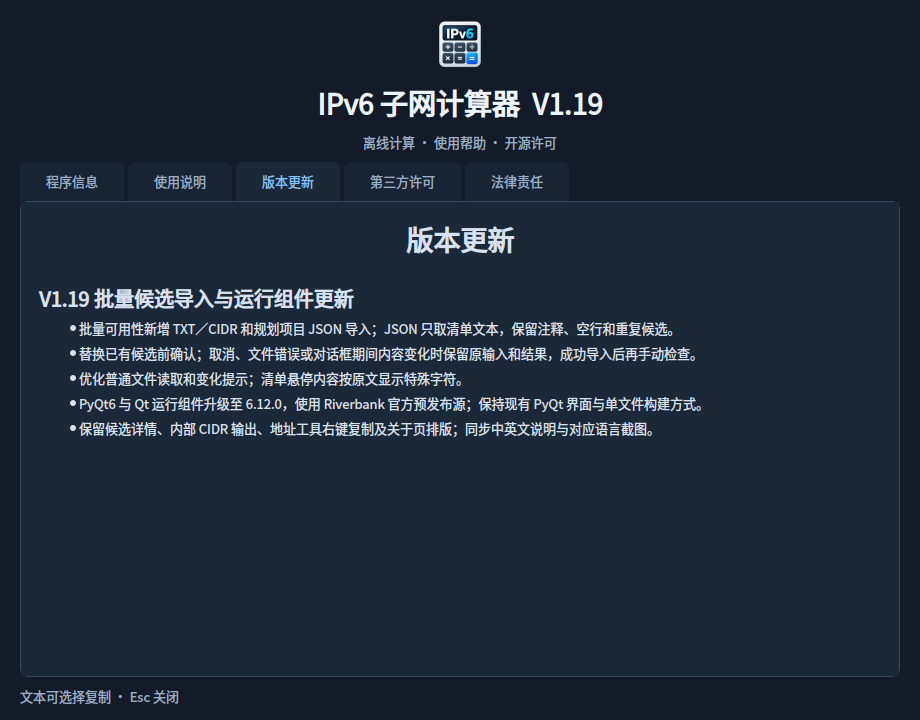
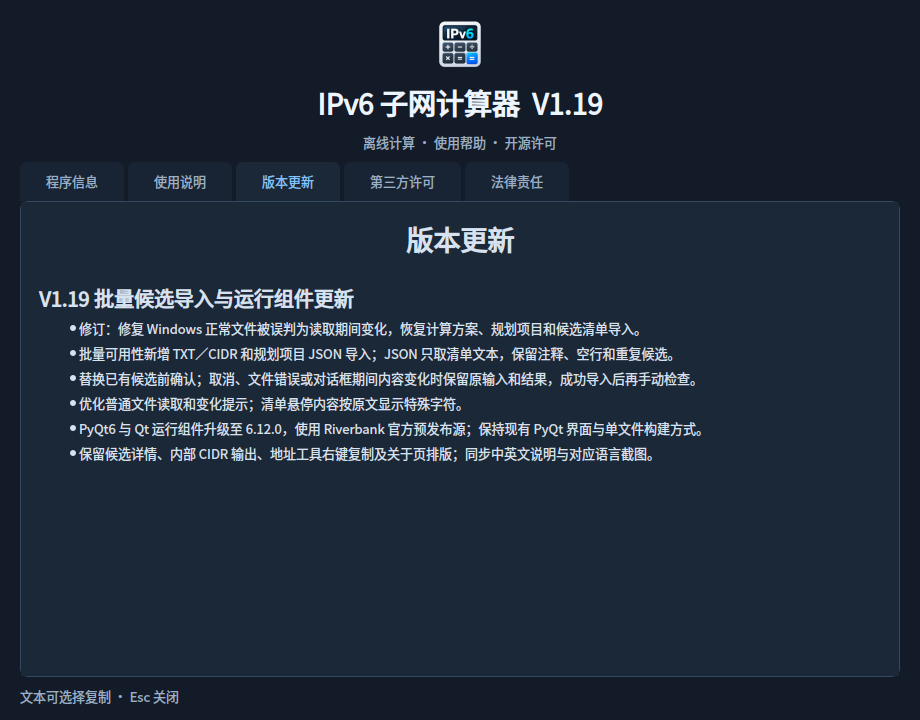
修复 Windows 文件读取误判导致的 i18n 回归失败

Changed region(s): [[0.0609, 0.4278, 0.7609, 0.6417]]

diff --git a/tests/test_import_security.py b/tests/test_import_security.py
@@ -89,3 +89,50 @@ class ImportSecurityTests(unittest.TestCase):
             with patch('services.input_files.os.fstat',side_effect=fake):
                 with self.assertRaises(InputError):read_input_file(p,100,'limit')
             with self.assertRaises(OSError):real(opened[0])
+
+
+class WindowsImportMetadataTests(unittest.TestCase):
+    @staticmethod
+    def copy_info(info,**changes):
+        from types import SimpleNamespace
+        fields={name:getattr(info,name) for name in ('st_dev','st_ino','st_mode','st_size','st_mtime_ns','st_ctime_ns')}
+        fields.update(changes)
+        return SimpleNamespace(**fields)
+
+    def test_windows_different_path_and_handle_ctime_accepts_unchanged_file(self):
+        real=os.fstat
+        with tempfile.TemporaryDirectory() as folder:
+            p=Path(folder)/'input.txt';p.write_bytes(b'::/128')
+            def handle(fd):return self.copy_info(real(fd),st_ctime_ns=real(fd).st_ctime_ns+1000000)
+            with patch('services.input_files._WINDOWS',True),patch('services.input_files.os.fstat',side_effect=handle):
+                self.assertEqual(load_subnet_list(p),'::/128')
+
+    def test_windows_handle_ctime_change_during_read_is_still_rejected(self):
+        real=os.fstat;calls=0
+        with tempfile.TemporaryDirectory() as folder:
+            p=Path(folder)/'input.txt';p.write_bytes(b'::/128')
+            def handle(fd):
+                nonlocal calls
+                calls+=1
+                return self.copy_info(real(fd),st_ctime_ns=real(fd).st_ctime_ns+calls)
+            with patch('services.input_files._WINDOWS',True),patch('services.input_files.os.fstat',side_effect=handle):
+                with self.assertRaises(InputError):load_subnet_list(p)
+
+    def test_windows_path_ctime_change_during_read_is_still_rejected(self):
+        real=os.stat;calls=0
+        with tempfile.TemporaryDirectory() as folder:
+            p=Path(folder)/'input.txt';p.write_bytes(b'::/128')
+            def path_info(path):
+                nonlocal calls
+                calls+=1;info=real(path)
+                return self.copy_info(info,st_ctime_ns=info.st_ctime_ns+calls)
+            with patch('services.input_files._WINDOWS',True),patch('services.input_files.os.stat',side_effect=path_info):
+                with self.assertRaises(InputError):load_subnet_list(p)
+
+    def test_posix_cross_api_ctime_difference_remains_rejected(self):
+        real=os.fstat
+        with tempfile.TemporaryDirectory() as folder:
+            p=Path(folder)/'input.txt';p.write_bytes(b'::/128')
+            def handle(fd):return self.copy_info(real(fd),st_ctime_ns=real(fd).st_ctime_ns+1)
+            with patch('services.input_files._WINDOWS',False),patch('services.input_files.os.fstat',side_effect=handle):
+                with self.assertRaises(InputError):load_subnet_list(p)

diff --git a/services/input_files.py b/services/input_files.py
@@ -6,9 +6,19 @@ import stat
 from core.ipv6_core import InputError
 from core.localized_text import text as tx
 
+_WINDOWS = os.name == 'nt'
+
 
 def _version(info):
     return (info.st_dev, info.st_ino, info.st_mode, info.st_size, info.st_mtime_ns, info.st_ctime_ns)
+
+
+def _open_version(info):
+    # Windows path stat reports creation time as ctime, while fstat may
+    # report metadata change time. Compare ctime only within the same API.
+    if _WINDOWS:
+        return (info.st_dev, info.st_ino, info.st_mode, info.st_size, info.st_mtime_ns)
+    return _version(info)
 
 
 def read_input_file(path, maximum, limit_message):
@@ -31,14 +41,14 @@ def read_input_file(path, maximum, limit_message):
             opened = os.fstat(stream.fileno())
             if not stat.S_ISREG(opened.st_mode):
                 raise InputError(tx('导入仅支持普通文件，不支持设备、管道或其他特殊文件。'))
-            if _version(opened) != _version(before):
+            if _open_version(opened) != _open_version(before):
                 raise InputError(tx('读取期间文件已变化，请等待写入完成后重新导入。'))
             data = stream.read(maximum+1)
             after = os.fstat(stream.fileno())
         if len(data) > maximum:
             raise InputError(limit_message)
         if (_version(after) != _version(opened) or len(data) != opened.st_size
-                or _version(os.stat(path)) != _version(opened)):
+                or _version(os.stat(path)) != _version(before)):
             raise InputError(tx('读取期间文件已变化，请等待写入完成后重新导入。'))
         return data
     finally:

diff --git a/docs/DEVELOPMENT.md b/docs/DEVELOPMENT.md
@@ -1,5 +1,7 @@
 ## V1.19 批量候选导入与运行组件更新
 
+- 修订：修复 Windows 正常文件被误判为读取期间变化，恢复计算方案、规划项目和候选清单导入。
+
 - 批量可用性新增 TXT／CIDR 和规划项目 JSON 导入；JSON 只取清单文本，保留注释、空行和重复候选。
 - 替换已有候选前确认；取消、文件错误或对话框期间内容变化时保留原输入和结果，成功导入后再手动检查。
 - 优化普通文件读取和变化提示；清单悬停内容按原文显示特殊字符。
@@ -7,6 +9,8 @@
 - 保留候选详情、内部 CIDR 输出、地址工具右键复制及关于页排版；同步中英文说明与对应语言截图。
 
 ## V1.19 Batch Candidate Import and Runtime Update
+
+- Revision: fixes unchanged Windows files being reported as modified during reading, restoring calculation-plan, planning-project and candidate imports.
 
 - Batch Availability imports TXT/CIDR and planning-project JSON; JSON uses list text only, retaining comments, blank lines and duplicate candidates.
 - Replacing candidates requires confirmation. Cancellation, file errors or dialog-time content changes preserve existing input/results; imported content is checked explicitly afterward.

diff --git a/docs/RELEASE_NOTES.md b/docs/RELEASE_NOTES.md
@@ -1,5 +1,7 @@
 ## V1.19 批量候选导入与运行组件更新
 
+- 修订：修复 Windows 正常文件被误判为读取期间变化，恢复计算方案、规划项目和候选清单导入。
+
 - 批量可用性新增 TXT／CIDR 和规划项目 JSON 导入；JSON 只取清单文本，保留注释、空行和重复候选。
 - 替换已有候选前确认；取消、文件错误或对话框期间内容变化时保留原输入和结果，成功导入后再手动检查。
 - 优化普通文件读取和变化提示；清单悬停内容按原文显示特殊字符。
@@ -7,6 +9,8 @@
 - 保留候选详情、内部 CIDR 输出、地址工具右键复制及关于页排版；同步中英文说明与对应语言截图。
 
 ## V1.19 Batch Candidate Import and Runtime Update
+
+- Revision: fixes unchanged Windows files being reported as modified during reading, restoring calculation-plan, planning-project and candidate imports.
 
 - Batch Availability imports TXT/CIDR and planning-project JSON; JSON uses list text only, retaining comments, blank lines and duplicate candidates.
 - Replacing candidates requires confirmation. Cancellation, file errors or dialog-time content changes preserve existing input/results; imported content is checked explicitly afterward.

diff --git a/README_EN.md b/README_EN.md
@@ -4,6 +4,8 @@
 
 ## V1.19 Batch Candidate Import and Runtime Update
 
+- Revision: fixes unchanged Windows files being reported as modified during reading, restoring calculation-plan, planning-project and candidate imports.
+
 - Batch Availability imports TXT/CIDR and planning-project JSON; JSON uses list text only, retaining comments, blank lines and duplicate candidates.
 - Replacing candidates requires confirmation. Cancellation, file errors or dialog-time content changes preserve existing input/results; imported content is checked explicitly afterward.
 - Improves ordinary-file reading and change messages; list tooltips display special characters literally.

diff --git a/docs/about/RELEASE_NOTES_EN.md b/docs/about/RELEASE_NOTES_EN.md
@@ -2,6 +2,8 @@
 
 ## V1.19 Batch Candidate Import and Runtime Update
 
+- Revision: fixes unchanged Windows files being reported as modified during reading, restoring calculation-plan, planning-project and candidate imports.
+
 - Batch Availability imports TXT/CIDR and planning-project JSON; JSON uses list text only, retaining comments, blank lines and duplicate candidates.
 - Replacing candidates requires confirmation. Cancellation, file errors or dialog-time content changes preserve existing input/results; imported content is checked explicitly afterward.
 - Improves ordinary-file reading and change messages; list tooltips display special characters literally.

diff --git a/README.md b/README.md
@@ -4,6 +4,8 @@
 
 ## V1.19 批量候选导入与运行组件更新
 
+- 修订：修复 Windows 正常文件被误判为读取期间变化，恢复计算方案、规划项目和候选清单导入。
+
 - 批量可用性新增 TXT／CIDR 和规划项目 JSON 导入；JSON 只取清单文本，保留注释、空行和重复候选。
 - 替换已有候选前确认；取消、文件错误或对话框期间内容变化时保留原输入和结果，成功导入后再手动检查。
 - 优化普通文件读取和变化提示；清单悬停内容按原文显示特殊字符。

diff --git a/docs/about/RELEASE_NOTES.md b/docs/about/RELEASE_NOTES.md
@@ -2,6 +2,8 @@
 
 ## V1.19 批量候选导入与运行组件更新
 
+- 修订：修复 Windows 正常文件被误判为读取期间变化，恢复计算方案、规划项目和候选清单导入。
+
 - 批量可用性新增 TXT／CIDR 和规划项目 JSON 导入；JSON 只取清单文本，保留注释、空行和重复候选。
 - 替换已有候选前确认；取消、文件错误或对话框期间内容变化时保留原输入和结果，成功导入后再手动检查。
 - 优化普通文件读取和变化提示；清单悬停内容按原文显示特殊字符。
